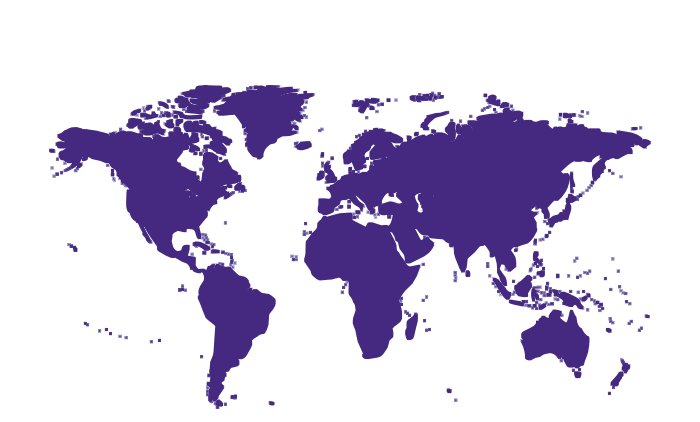
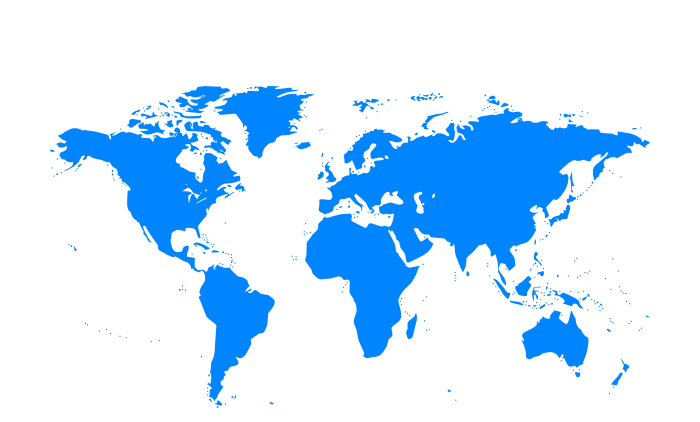
update splash and added flag to main screen

diff --git a/lib/screens/splash/splash.screen.dart b/lib/screens/splash/splash.screen.dart
@@ -5,12 +5,9 @@ import 'package:covid19/screens/tab/tab-screen.dart';
 import 'package:flutter/material.dart';
 import 'package:flutter_hooks/flutter_hooks.dart';
 import 'package:hooks_riverpod/hooks_riverpod.dart';
-import 'package:lottie/lottie.dart';
 import 'package:shared_preferences/shared_preferences.dart';
 
 class Splash extends HookWidget {
-  final String lottieFile = 'assets/28663-coronavirus-covid-19.json';
-
   @override
   Widget build(BuildContext context) {
     final prefs = useProvider(preferencesProvider);
@@ -18,7 +15,7 @@ class Splash extends HookWidget {
     final animationController = useAnimationController();
     final backgroundColor = Theme.of(context).accentColor;
 
-    void onAnimationLoaded(LottieComposition composition) {
+    void onAnimationLoaded() {
       animationController.addStatusListener((status) {
         if (status == AnimationStatus.completed) {
           return loaded.value = true;
@@ -26,23 +23,15 @@ class Splash extends HookWidget {
       });
 
       animationController
-        ..duration = composition.duration
+        ..duration = Duration(seconds: 2)
         ..forward();
     }
 
     return loaded.value == false
-        ? KgpCenter(
-            backgroundColor: backgroundColor,
-            child: Lottie.asset(
-              lottieFile,
-              height: 250.0,
-              controller: animationController,
-              onLoaded: onAnimationLoaded,
-            ),
-          )
+        ? _loadingBuilder(color: backgroundColor, start: onAnimationLoaded)
         : prefs.when(
             data: (data) => _checkFirstSeen(data),
-            loading: () => _loadingBuilder(backgroundColor),
+            loading: () => _loadingBuilder(color: backgroundColor),
             error: (error, _) => _errorBuilder(error),
           );
   }
@@ -52,9 +41,29 @@ class Splash extends HookWidget {
     return _seen == true ? TabScreen() : BoardingScreen();
   }
 
-  KgpCenter _loadingBuilder(Color backgroundColor) => KgpCenter(
-      backgroundColor: backgroundColor,
-      child: Lottie.asset(lottieFile, height: 250.0));
+  Widget _loadingBuilder({Color color, Function start}) {
+    if (start != null) {
+      start();
+    }
+    return Scaffold(
+      extendBodyBehindAppBar: true,
+      extendBody: true,
+      backgroundColor: color,
+      appBar: AppBar(
+        toolbarHeight: 0,
+        elevation: 0,
+        backgroundColor: color,
+        brightness: Brightness.dark,
+      ),
+      body: Image.asset(
+        'assets/splash.png',
+        fit: BoxFit.cover,
+        height: double.infinity,
+        width: double.infinity,
+        alignment: Alignment.center,
+      ),
+    );
+  }
 
   KgpCenter _errorBuilder(error) => KgpCenter(child: Text(error.toString()));
 }

diff --git a/lib/screens/countries/countries-item.dart b/lib/screens/countries/countries-item.dart
@@ -4,6 +4,7 @@ import 'package:covid19/models/country-model.dart';
 import 'package:covid19/screens/country/country-screen.dart';
 import 'package:covid19/utils/comma.util.dart';
 import 'package:flutter/material.dart';
+import 'package:flutter_animator/flutter_animator.dart';
 // import 'package:flutter_animator/flutter_animator.dart';
 import 'package:flutter_icons/flutter_icons.dart';
 
@@ -29,36 +30,40 @@ class CountriesItem extends StatelessWidget {
             imageWidth: 30.0,
             imageHeight: 30.0,
           ),
-          title: Text(
-            data.country,
-            overflow: TextOverflow.ellipsis,
-            style: TextStyle(
-              color: theme.textTheme.bodyText1.color,
-              fontSize: 16,
-              fontWeight: FontWeight.w500,
+          title: FadeInDown(
+            child: Text(
+              data.country,
+              overflow: TextOverflow.ellipsis,
+              style: TextStyle(
+                color: theme.textTheme.bodyText1.color,
+                fontSize: 16,
+                fontWeight: FontWeight.w500,
+              ),
             ),
           ),
-          trailing: RichText(
-            text: TextSpan(
-              children: [
-                TextSpan(
-                  text: CommaUtil.use(data.cases),
-                  style: TextStyle(
-                    color: theme.textTheme.bodyText1.color,
-                    fontSize: 18,
-                    fontWeight: FontWeight.w400,
-                  ),
-                ),
-                WidgetSpan(
-                  child: Padding(
-                    padding: const EdgeInsets.only(left: 10),
-                    child: Icon(
-                      Ionicons.ios_pulse,
-                      color: theme.accentColor,
+          trailing: FadeInUp(
+            child: RichText(
+              text: TextSpan(
+                children: [
+                  TextSpan(
+                    text: CommaUtil.use(data.cases),
+                    style: TextStyle(
+                      color: theme.textTheme.bodyText1.color,
+                      fontSize: 18,
+                      fontWeight: FontWeight.w400,
                     ),
                   ),
-                ),
-              ],
+                  WidgetSpan(
+                    child: Padding(
+                      padding: const EdgeInsets.only(left: 10),
+                      child: Icon(
+                        Ionicons.ios_pulse,
+                        color: theme.accentColor,
+                      ),
+                    ),
+                  ),
+                ],
+              ),
             ),
           ),
         ),

diff --git a/lib/screens/main/main-card-list.dart b/lib/screens/main/main-card-list.dart
@@ -1,3 +1,6 @@
+import 'dart:ui';
+
+import 'package:cached_network_image/cached_network_image.dart';
 import 'package:covid19/components/ads-component.dart';
 import 'package:covid19/components/country-card/country-card-today.dart';
 import 'package:covid19/components/kgp-base-page.dart';
@@ -17,8 +20,62 @@ class MainCardList extends StatelessWidget {
 
   @override
   Widget build(BuildContext context) {
+    final theme = Theme.of(context);
     return KgpBasePage(
       title: data.country,
+      background: Stack(
+        children: [
+          Padding(
+            padding: const EdgeInsets.only(top: 30),
+            child: CachedNetworkImage(
+              imageUrl: data.countryInfo.flag,
+              imageBuilder: (context, imageProvider) => Container(
+                width: double.infinity,
+                height: double.infinity,
+                decoration: BoxDecoration(
+                  shape: BoxShape.rectangle,
+                  image: DecorationImage(
+                    image: imageProvider,
+                    fit: BoxFit.cover,
+                  ),
+                ),
+              ),
+              errorWidget: (context, url, error) => Container(),
+              placeholder: (context, url) => Container(),
+            ),
+          ),
+          Positioned(
+            bottom: -1,
+            left: 0,
+            right: 0,
+            top: 0,
+            child: BackdropFilter(
+              filter: ImageFilter.blur(
+                sigmaX: 20,
+                sigmaY: 20,
+              ),
+              child: Container(
+                color: theme.backgroundColor.withOpacity(0.7),
+              ),
+            ),
+          ),
+          Positioned(
+            bottom: -1,
+            left: 0,
+            right: 0,
+            top: 0,
+            child: Container(
+              decoration: BoxDecoration(
+                gradient: LinearGradient(
+                  begin: Alignment.topCenter,
+                  end: Alignment.bottomCenter,
+                  colors: [Colors.transparent, theme.backgroundColor],
+                ),
+              ),
+            ),
+          ),
+        ],
+      ),
       children: [
         Container(
           padding: const EdgeInsets.symmetric(horizontal: 20),

diff --git a/lib/components/ads-component.dart b/lib/components/ads-component.dart
@@ -1,4 +1,5 @@
 import 'package:covid19/components/card-component.dart';
+import 'package:flutter/foundation.dart';
 import 'package:flutter/material.dart';
 import 'package:flutter_native_admob/flutter_native_admob.dart';
 import 'package:flutter_native_admob/native_admob_controller.dart';
@@ -40,14 +41,19 @@ class _AdsComponentState extends State<AdsComponent> {
     final theme = Theme.of(context);
     final textColor = theme.textTheme.bodyText1.color;
 
-    if (ready) {
-      return CardComponent(
+    return Visibility(
+      visible: ready,
+      maintainState: true,
+      maintainAnimation: true,
+      replacement: Container(),
+      child: CardComponent(
         padding: const EdgeInsets.all(20),
         child: Container(
           height: widget.type == NativeAdmobType.full ? 350 : 60,
           child: NativeAdmob(
-            adUnitID: 'ca-app-pub-5675929973866541/7003986965',
-            // adUnitID: 'ca-app-pub-3940256099942544/2247696110',
+            adUnitID: kDebugMode
+                ? 'ca-app-pub-3940256099942544/2247696110'
+                : 'ca-app-pub-5675929973866541/7003986965',
             loading: Center(child: CircularProgressIndicator(strokeWidth: 2.0)),
             error: Container(height: 0),
             controller: _controller,
@@ -67,9 +73,7 @@ class _AdsComponentState extends State<AdsComponent> {
             ),
           ),
         ),
-      );
-    }
-
-    return Container();
+      ),
+    );
   }
 }

diff --git a/lib/screens/boarding/boarding.screen.dart b/lib/screens/boarding/boarding.screen.dart
@@ -32,11 +32,10 @@ class BoardingScreen extends HookWidget {
     void startApp() async {
       if (homePrefs.homeCountry.country == null) return onTapIcon(4);
       await prefs.data.value.setBool('start', true);
-      Future.delayed(Duration(seconds: 1)).then((value) {
-        Navigator.of(context).pushReplacement(
-          MaterialPageRoute(builder: (_) => TabScreen()),
-        );
-      });
+
+      Navigator.of(context).pushReplacement(
+        MaterialPageRoute(builder: (_) => TabScreen()),
+      );
     }
 
     List<Widget> _pages = [

diff --git a/lib/screens/countries/countries-screen.dart b/lib/screens/countries/countries-screen.dart
@@ -17,7 +17,7 @@ class CountriesScreen extends HookWidget {
     return Scaffold(
       body: KgpBasePage(
         title: 'Countries',
-        sliverList: SliverChildListDelegate(
+        sliverList: SliverChildListDelegate.fixed(
           config.when(
             loading: () => [KgpLoader()],
             error: (error, st) => [Center(child: Text(error.toString()))],
